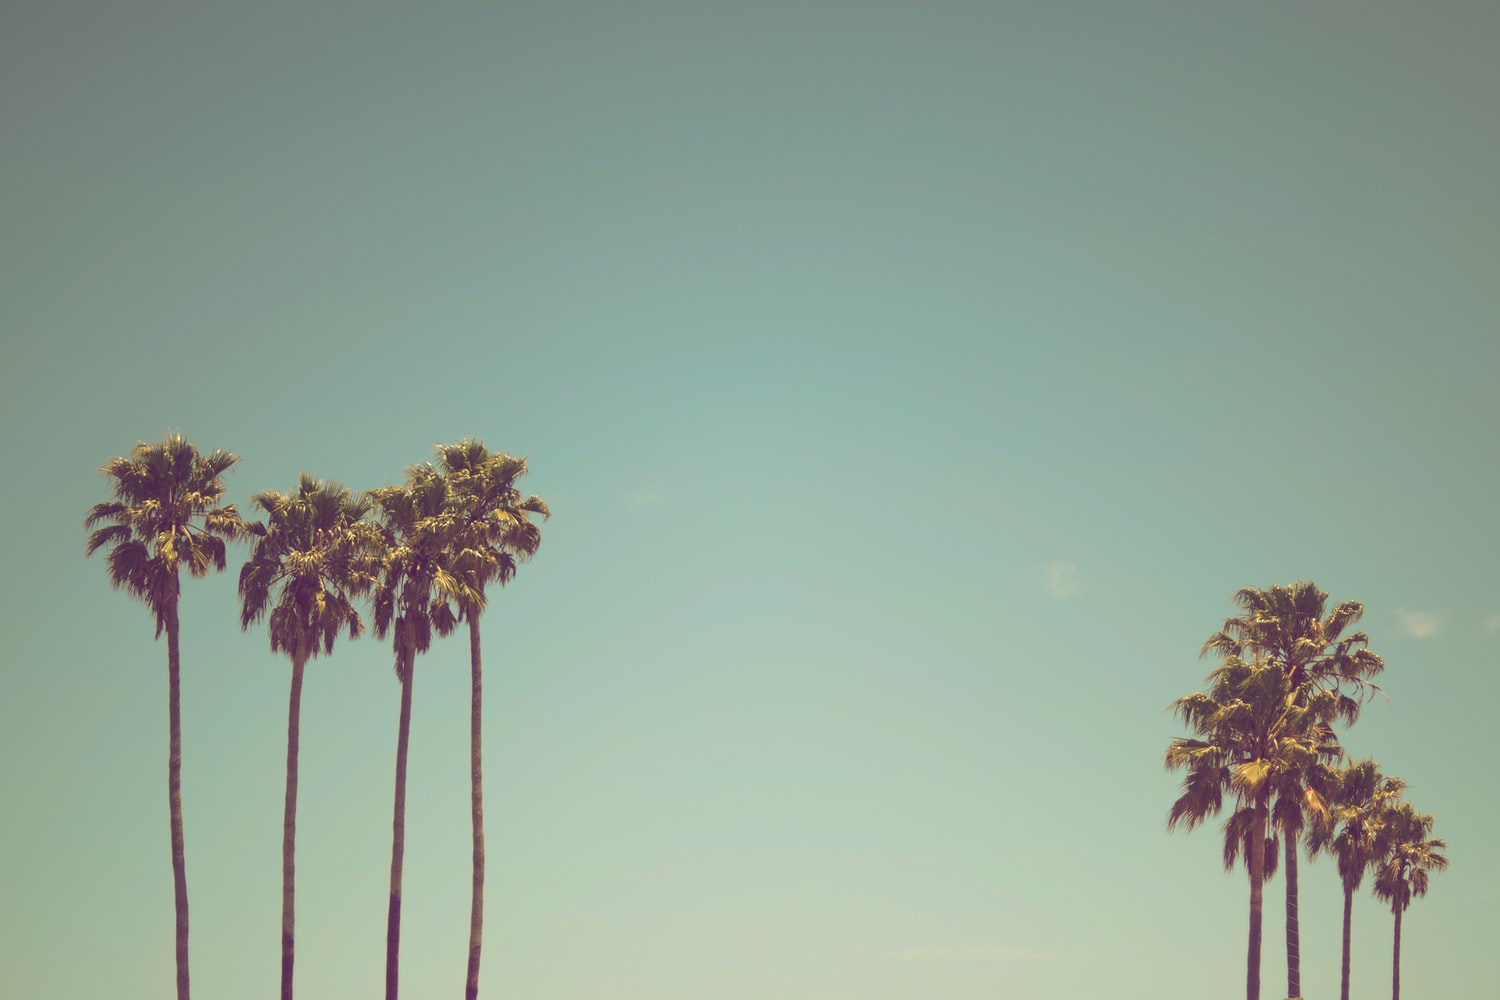
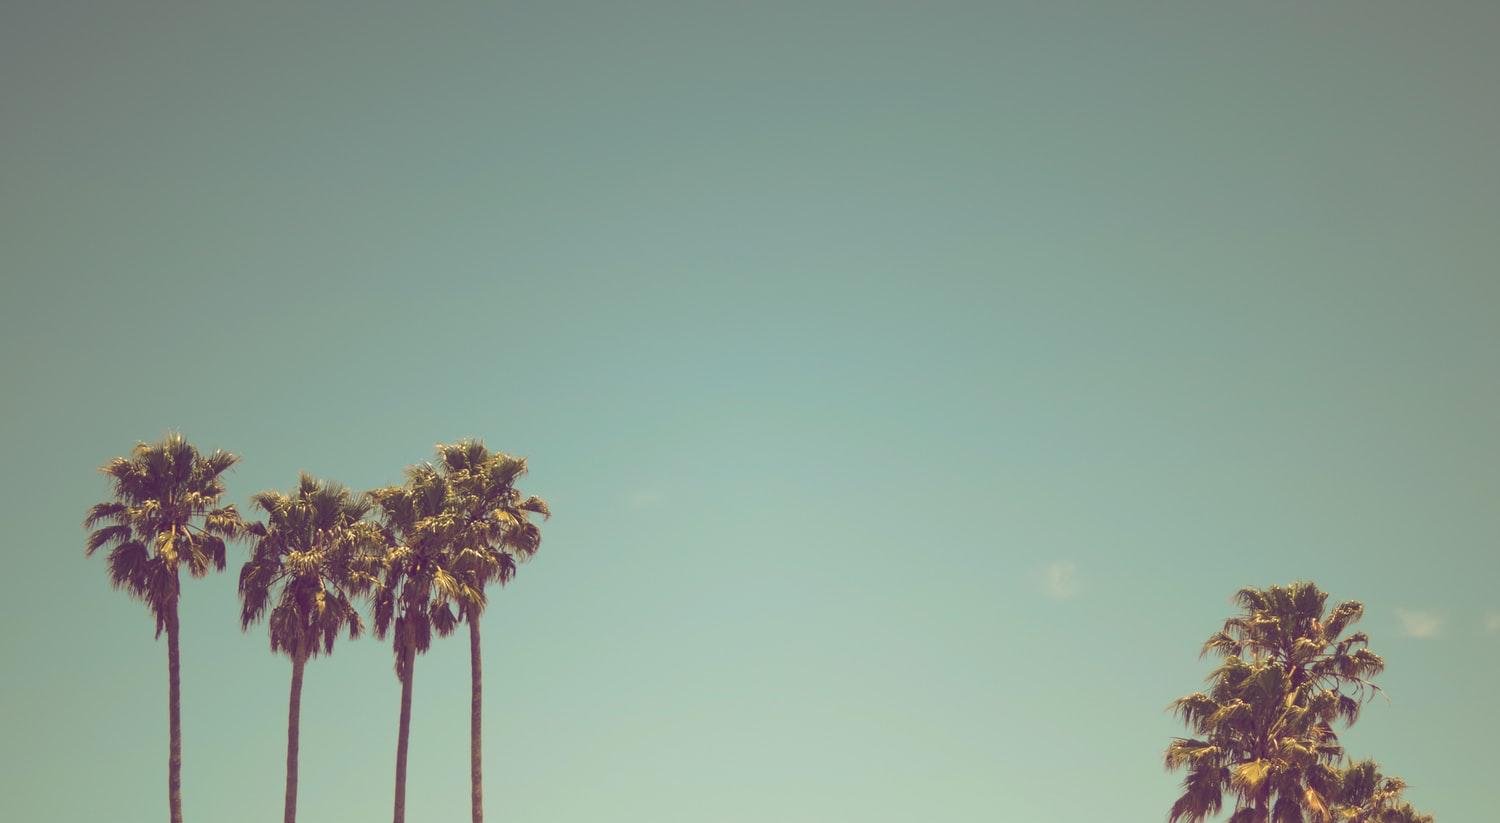
Added About image

diff --git a/src/Navigation/Navigation.scss b/src/Navigation/Navigation.scss
@@ -31,11 +31,32 @@
   left: 0;
   right: 0;
   //animation: moveDown 0.3s ease-in-out;  
-  height: 50px;
+  height: 75px;
 }
 
 .navigation__container--sticky {
+  height: 50px;
   background-color: var(--dark-blue) !important;
+
+  .links__container--open {
+    top: 50px;
+
+    button {
+      height: 60px;
+      padding: 0.5em 1em;
+      color: #fff;
+    }
+  
+    .btn--contact {
+      border: 2px solid #fff;
+      border-radius: 5px;
+      
+      &:hover {
+        background-color: #fff;
+        transition: background-color 0.2s ease-in-out;
+      }
+    }
+  }
 }
 
 .navigation__links {
@@ -50,6 +71,12 @@
   flex: 0.4;
   display: flex;
   justify-content: space-between;
+
+  button {
+    display: flex;
+    align-items: center;
+    justify-content: center;
+  }
 
   .btn--contact {
     border: 2px solid #fff;
@@ -69,6 +96,10 @@
     border: none;
     cursor: pointer;
     height: 35px;
+    display: flex;
+    align-items: center;
+    justify-content: center;
+
     &:hover {
       color: var(--light-blue)
     }
@@ -95,6 +126,7 @@
     position: fixed;
     top: 0;
     left: 0;
+    background-color: transparent;
   }
 
   .navigation__toggle {
@@ -121,10 +153,10 @@
     justify-content: flex-start;
     align-items: center;
     flex-direction: column;
-    top: 50px;
+    top: 75px;
     left: 0;
     position: absolute;
-    background-color: var(--light-grey);
+    background-color: var(--dark-blue);
     visibility: visible;
     z-index: 9999;
     height: calc(100vh - 50px);
@@ -144,8 +176,9 @@
 
     button {
       margin: 1em auto;
-      color: var(--light-blue);
       font-size: 27px;
+      height: 60px;
+      padding: 0.5em 1em;
     }
   }
 
@@ -221,7 +254,7 @@
       font-family: inherit;
       border: none;
       cursor: pointer;
-  
+     
       &:hover {
         color: var(--light-blue)
       }

diff --git a/src/Header/Header.scss b/src/Header/Header.scss
@@ -7,13 +7,24 @@
   flex: 1 100%;
   z-index: 0;
   position: relative;
-  background-image: url('../assets/img/bg-palms.jpg'), linear-gradient(rgba(0, 0, 0, 0.5), rgba(0, 0, 0, 0.5));
+  background-image: url('../assets/img/bg-palms-original.jpg'), linear-gradient(rgba(0, 0, 0, 0.5), rgba(0, 0, 0, 0.5));
   //background-color: var(--dark-blue);
   background-blend-mode: overlay;
   background-size: cover;
   background-position: 0 60%;
   background-repeat: no-repeat;
+}
 
+@media screen and (min-width: 300px) {
+  .header__container {
+    background-position: 8% 0;
+  }
+}
+
+@media screen and (min-width: 400px) {
+  .header__container {
+    background-position: 5% 20%;
+  }
 }
 
 .header__h1, .header__typed-element {
